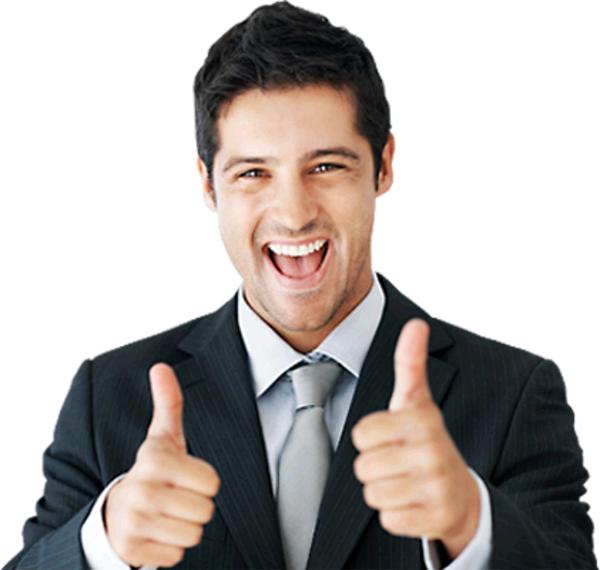
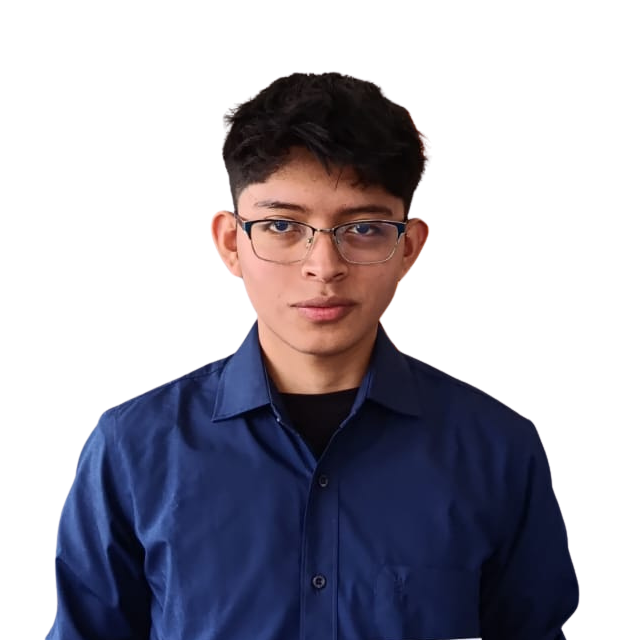
ajustes en skill para el chat

diff --git a/frontend/src/components/Hero.jsx b/frontend/src/components/Hero.jsx
@@ -178,7 +178,7 @@ export default function Hero({ progress, activeSection, contentScroll, isMobile 
         <motion.img
           src={PHOTO} alt="Josué Hernández"
           style={{
-            position: 'absolute', right: '2vw', bottom: 0,
+            position: 'absolute', right: '12vw', bottom: 0,
             height: '86%', width: 'auto',
             objectFit: 'contain', objectPosition: 'bottom center',
             filter: 'drop-shadow(0 2.5rem 3.75rem rgba(27,26,21,0.18))',
@@ -254,7 +254,7 @@ export default function Hero({ progress, activeSection, contentScroll, isMobile 
             margin: 0,
             color: 'var(--ink)',
           }}>
-            Josué <span style={{ color: 'var(--accent)' }}>Hernández</span>
+            Josue <span style={{ color: 'var(--accent)' }}>Hernández</span>
           </h1>
         </motion.div>
 

diff --git a/backend/app/services/chat_service.py b/backend/app/services/chat_service.py
@@ -7,18 +7,44 @@ from app.config import get_settings
 from app.services.project_service import get_all_projects, get_project_by_slug
 
 settings = get_settings()
-ABOUT_ME_PATH = Path(__file__).parent.parent.parent / "about-me.md"
+ABOUT_DIR = Path(__file__).parent.parent.parent / "about"
 MODEL = "claude-sonnet-4-6"
 
 TOOLS = [
     {
+        "name": "get_bio",
+        "description": "Obtiene la presentación personal del desarrollador: nombre, rol, ubicación, disponibilidad y contacto",
+        "input_schema": {"type": "object", "properties": {}, "required": []},
+    },
+    {
+        "name": "get_skills",
+        "description": "Obtiene información sobre el perfil técnico del desarrollador, sus áreas de fortaleza y cómo trabaja",
+        "input_schema": {"type": "object", "properties": {}, "required": []},
+    },
+    {
+        "name": "get_experience",
+        "description": "Obtiene la experiencia laboral del desarrollador: empresas, roles y responsabilidades",
+        "input_schema": {"type": "object", "properties": {}, "required": []},
+    },
+    {
+        "name": "get_education",
+        "description": "Obtiene la formación académica del desarrollador: universidad, carrera y certificaciones",
+        "input_schema": {"type": "object", "properties": {}, "required": []},
+    },
+    {
+        "name": "get_services",
+        "description": "Obtiene los servicios freelance que ofrece el desarrollador y cómo contratarlo",
+        "input_schema": {"type": "object", "properties": {}, "required": []},
+    },
+    {
+        "name": "get_values",
+        "description": "Obtiene los valores, forma de trabajar y qué motiva al desarrollador",
+        "input_schema": {"type": "object", "properties": {}, "required": []},
+    },
+    {
         "name": "get_all_projects",
         "description": "Obtiene la lista completa de proyectos del portafolio",
-        "input_schema": {
-            "type": "object",
-            "properties": {},
-            "required": [],
-        },
+        "input_schema": {"type": "object", "properties": {}, "required": []},
     },
     {
         "name": "get_project_by_slug",
@@ -28,27 +54,28 @@ TOOLS = [
             "properties": {
                 "slug": {
                     "type": "string",
-                    "description": "El slug único del proyecto, ej: 'uvghelp'",
+                    "description": "El slug único del proyecto, ej: 'uvg-help'",
                 }
             },
             "required": ["slug"],
         },
     },
-    {
-        "name": "get_contact_info",
-        "description": "Obtiene la información de contacto del desarrollador (email, LinkedIn, GitHub)",
-        "input_schema": {
-            "type": "object",
-            "properties": {},
-            "required": [],
-        },
-    },
 ]
 
+FILE_MAP = {
+    "get_bio": "bio.md",
+    "get_skills": "skills.md",
+    "get_experience": "experience.md",
+    "get_education": "education.md",
+    "get_services": "services.md",
+    "get_values": "values.md",
+}
 
-def _read_about_me() -> str:
-    if ABOUT_ME_PATH.exists():
-        return ABOUT_ME_PATH.read_text(encoding="utf-8")
+
+def _read_about(filename: str) -> str:
+    path = ABOUT_DIR / filename
+    if path.exists():
+        return path.read_text(encoding="utf-8")
     return ""
 
 
@@ -63,6 +90,7 @@ def _projects_to_summary(projects) -> list[dict]:
             "category": p.category,
             "demo_url": p.demo_url,
             "status": p.status,
+            "year": p.year,
         }
         for p in projects
     ]
@@ -83,10 +111,22 @@ def _project_to_detail(project) -> dict:
         "repo_urls": project.repo_urls,
         "featured": project.featured,
         "status": project.status,
+        "year": project.year,
+        "problem_solved": project.problem_solved,
+        "architecture": project.architecture,
+        "challenges": project.challenges,
+        "what_i_learned": project.what_i_learned,
+        "would_do_different": project.would_do_different,
+        "role": project.role,
+        "team_size": project.team_size,
+        "team_description": project.team_description,
     }
 
 
-def _handle_tool(db: Session, tool_name: str, tool_input: dict, about_me: str) -> dict:
+def _handle_tool(db: Session, tool_name: str, tool_input: dict) -> dict:
+    if tool_name in FILE_MAP:
+        return {"content": _read_about(FILE_MAP[tool_name])}
+
     if tool_name == "get_all_projects":
         return {"projects": _projects_to_summary(get_all_projects(db))}
 
@@ -97,25 +137,19 @@ def _handle_tool(db: Session, tool_name: str, tool_input: dict, about_me: str) -
             return {"error": f"Proyecto con slug '{slug}' no encontrado"}
         return _project_to_detail(project)
 
-    if tool_name == "get_contact_info":
-        return {"about_me": about_me}
-
     return {"error": f"Herramienta '{tool_name}' no reconocida"}
 
 
 def process_chat(db: Session, user_message: str) -> str:
-    about_me = _read_about_me()
     projects = get_all_projects(db)
 
-    system_prompt = f"""Eres un asistente del portafolio personal de un desarrollador full-stack. Responde de forma amigable y profesional.
+    system_prompt = f"""Eres un asistente del portafolio personal de un desarrollador. Responde de forma amigable y profesional.
 
-Información del desarrollador:
-{about_me}
+Tienes herramientas para obtener información detallada sobre el desarrollador y sus proyectos. Úsalas según lo que pregunte el usuario — no cargues información que no sea necesaria.
 
-Proyectos (resumen):
+Proyectos disponibles (resumen):
 {json.dumps(_projects_to_summary(projects), ensure_ascii=False, indent=2)}
 
-Usa las herramientas disponibles cuando necesites información más detallada.
 Responde siempre en el idioma en que te hablen."""
 
     client = anthropic.Anthropic(api_key=settings.anthropic_api_key)
@@ -145,7 +179,7 @@ Responde siempre en el idioma en que te hablen."""
         for block in response.content:
             if block.type != "tool_use":
                 continue
-            result = _handle_tool(db, block.name, block.input, about_me)
+            result = _handle_tool(db, block.name, block.input)
             tool_results.append({
                 "type": "tool_result",
                 "tool_use_id": block.id,

diff --git a/backend/about/skills.md b/backend/about/skills.md
@@ -1,0 +1,26 @@
+# Habilidades
+
+## Cómo describirías tu perfil técnico
+
+[En tus propias palabras, ¿cómo te defines técnicamente? ¿Eres más backend, más fullstack,
+te inclinas hacia la IA? Esto no es una lista de tecnologías sino cómo describes tu perfil.]
+
+## Áreas de mayor fortaleza
+
+[Describe en qué áreas te sientes más sólido y por qué. Ej: "En backend me siento muy
+cómodo diseñando APIs REST desde cero, eligiendo la arquitectura correcta y pensando en
+escalabilidad desde el inicio". Sé específico y honesto.]
+
+## Áreas que estás desarrollando
+
+[Qué estás aprendiendo o mejorando activamente en este momento.]
+
+## Cómo resuelves problemas
+
+[Describe tu proceso cuando enfrentas un problema técnico que no conoces.
+Cómo investigas, cómo tomas decisiones, cómo evalúas soluciones.]
+
+## Qué tipo de código escribes
+
+[Cómo describes tu estilo: código limpio, bien estructurado, orientado a mantenibilidad,
+pragmático, etc. Qué priorizas cuando programas.]

diff --git a/backend/about/services.md b/backend/about/services.md
@@ -1,0 +1,27 @@
+# Servicios
+
+## Qué tipo de proyectos aceptas
+
+[Describe qué tipo de trabajo freelance o consultorías tomas. Ej: desarrollo de APIs,
+aplicaciones web completas, integraciones con IA, MVPs para startups, etc.]
+
+## Qué no aceptas
+
+[Opcional pero útil: qué tipo de proyectos o clientes prefieres evitar.
+Esto ayuda a filtrar desde el chat.]
+
+## Cómo trabajas con clientes
+
+[Describe tu proceso: cómo inicias un proyecto, cómo te comunicas, qué necesitas del cliente
+para arrancar, cómo entregas. Ej: "Comienzo con una llamada para entender el problema,
+luego propongo una arquitectura antes de escribir código".]
+
+## Disponibilidad actual
+
+[Cuántas horas por semana tienes disponibles, si aceptas proyectos largos o cortos,
+si estás disponible para trabajo remoto internacional.]
+
+## Cómo contactarte para un proyecto
+
+[Dónde prefieren que te escriban: email, LinkedIn, formulario del portafolio.
+Y qué información te ayuda a responder más rápido.]

diff --git a/backend/about/education.md b/backend/about/education.md
@@ -1,0 +1,33 @@
+# Formación
+
+## Educación formal
+
+**Universidad:** [nombre de la universidad]
+**Carrera:** [nombre de la carrera]
+**Estado:** [graduado en año / en curso, X semestre]
+
+[Algo adicional sobre tu formación si aplica: énfasis, tesis, proyectos académicos relevantes,
+logros dentro de la universidad.]
+
+---
+
+## Cursos y certificaciones
+
+### [Nombre del curso o certificación]
+**Plataforma / Institución:** [Udemy / Coursera / AWS / etc.]
+**Año:** [año]
+[Una línea de qué cubrió y por qué lo tomaste.]
+
+### [Nombre del curso o certificación]
+**Plataforma / Institución:** [...]
+**Año:** [año]
+[Una línea de qué cubrió.]
+
+<!-- Agrega solo los que consideres relevantes o que realmente completaste -->
+
+---
+
+## Aprendizaje autodidacta
+
+[Cómo aprendes por tu cuenta: documentación oficial, proyectos personales, comunidades,
+libros técnicos, etc. Esto muestra tu mentalidad de crecimiento continuo.]

diff --git a/backend/about/values.md b/backend/about/values.md
@@ -1,0 +1,25 @@
+# Valores y forma de trabajar
+
+## Qué priorizas cuando construyes software
+
+[Qué es lo más importante para ti en un proyecto: que funcione bien, que sea mantenible,
+que sea rápido de entregar, que escale. Cómo balanceas esas prioridades.]
+
+## Cómo trabajas en equipo
+
+[Cómo te comunicas, cómo manejas desacuerdos técnicos, cómo te adaptas a equipos
+con distintos niveles de experiencia. Qué tipo de equipo saca lo mejor de ti.]
+
+## Qué te motiva
+
+[Qué tipo de problemas o proyectos te generan genuino entusiasmo.
+Qué hace que te quedes hasta tarde trabajando en algo.]
+
+## Qué no va contigo
+
+[Honestamente, qué tipo de ambiente de trabajo o dinámicas no funcionan para ti.]
+
+## Tu relación con la calidad del código
+
+[Qué significa para ti código de calidad. Cómo equilibras perfección con pragmatismo.
+Qué tan importante son los tests, la documentación, las revisiones de código en tu flujo.]

diff --git a/backend/about/experience.md b/backend/about/experience.md
@@ -1,0 +1,27 @@
+# Experiencia laboral
+
+## [Nombre de la empresa] — [tu rol]
+**Período:** [mes año – mes año / presente]
+**Modalidad:** [remoto / presencial / híbrido]
+
+[Describe qué hacías en este trabajo. Qué construiste, qué problemas resolviste,
+con qué equipo trabajabas, qué tecnologías usabas en el día a día.
+Sé concreto: no solo "desarrollé features" sino qué tipo de features y qué impacto tuvieron.]
+
+---
+
+## [Nombre de la empresa] — [tu rol]
+**Período:** [mes año – mes año]
+**Modalidad:** [remoto / presencial / híbrido]
+
+[Mismo formato: qué hiciste, qué construiste, qué aprendiste.]
+
+---
+
+<!-- Repite el bloque anterior por cada experiencia laboral relevante -->
+
+## Freelance / Proyectos independientes
+**Período:** [desde cuándo]
+
+[Si has hecho trabajo independiente, describe qué tipo de proyectos has tomado,
+para qué tipo de clientes, qué solías construir.]

diff --git a/backend/about/bio.md b/backend/about/bio.md
@@ -1,0 +1,21 @@
+# Bio
+
+**Nombre:** [tu nombre completo]
+**Rol:** [tu título profesional, ej: Full-Stack Developer]
+**Ubicación:** [ciudad, país]
+**Disponibilidad:** [ej: Disponible para trabajo remoto / Disponible desde marzo 2025]
+**Email:** [tu email]
+**LinkedIn:** [URL de tu LinkedIn]
+**GitHub:** [URL de tu GitHub]
+**Portfolio:** [URL de tu portafolio si aplica]
+
+## Presentación
+
+[2-3 párrafos contando quién eres como profesional. Qué te apasiona de la programación,
+qué tipo de problemas te gusta resolver, qué te hace diferente como developer.
+Escríbelo en primera persona como si te estuvieras presentando a un cliente o empleador.]
+
+## En este momento
+
+[Qué estás haciendo actualmente: trabajando en X, estudiando Y, construyendo Z.
+También puedes indicar qué tipo de oportunidades estás buscando.]
